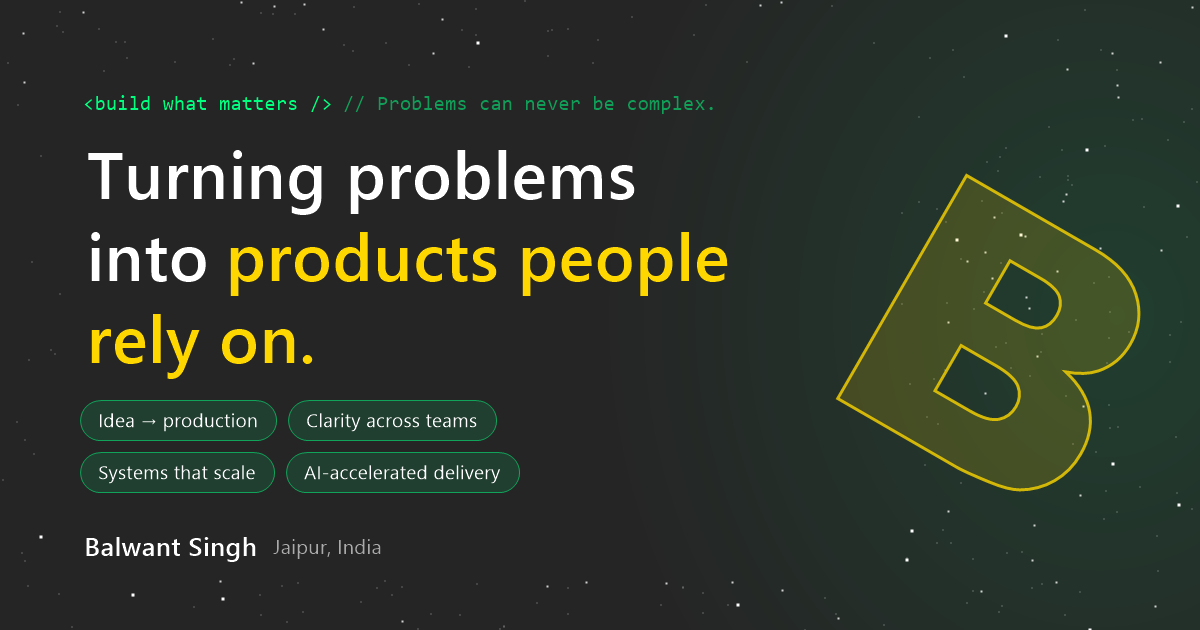
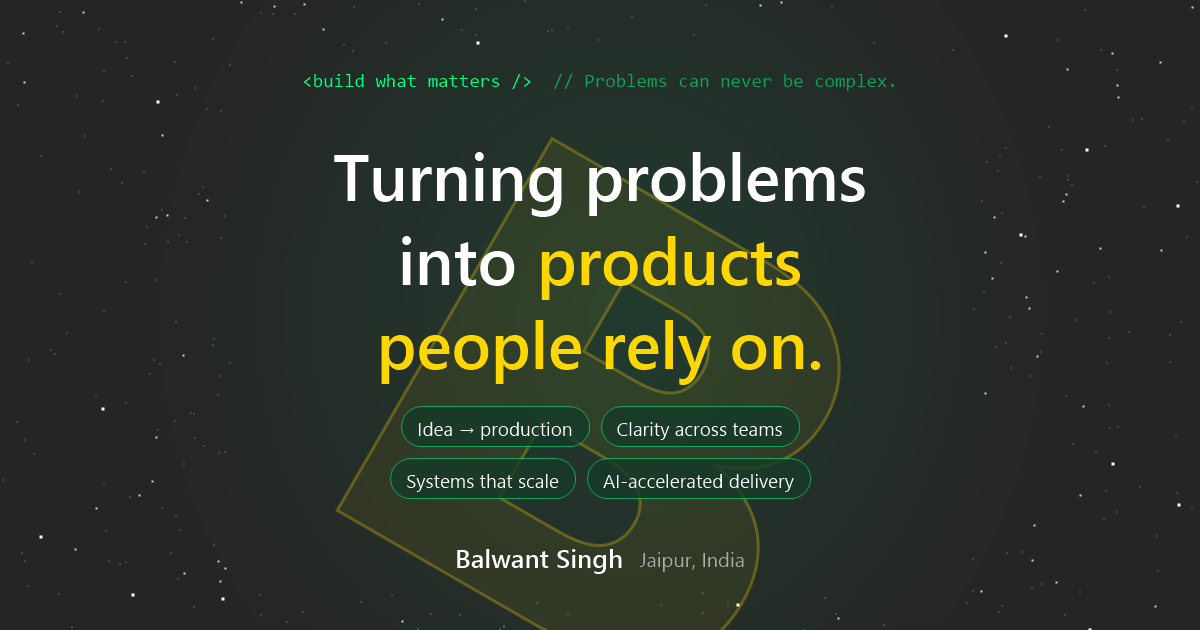
Centre the link-preview image so square crops show the full message
Slack and similar apps crop the preview to a centre square, so the
headline, pills and name now sit inside it. The image URL carries ?v=2
so cached previews refresh.

diff --git a/public/index.html b/public/index.html
@@ -17,7 +17,7 @@
     <meta property="og:title" content="Balwant Singh | Turning problems into products people rely on" />
     <meta property="og:description" content="Balwant Singh turns problems into products people rely on. Senior software engineer, forward deployed engineer and team lead based in Jaipur, India." />
     <meta property="og:url" content="https://darkgreen-reindeer-651346.hostingersite.com/" />
-    <meta property="og:image" content="https://darkgreen-reindeer-651346.hostingersite.com/og-image.png" />
+    <meta property="og:image" content="https://darkgreen-reindeer-651346.hostingersite.com/og-image.png?v=2" />
     <meta property="og:image:width" content="1200" />
     <meta property="og:image:height" content="630" />
     <meta
@@ -27,7 +27,7 @@
     <meta name="twitter:card" content="summary_large_image" />
     <meta name="twitter:title" content="Balwant Singh | Turning problems into products people rely on" />
     <meta name="twitter:description" content="Balwant Singh turns problems into products people rely on. Senior software engineer, forward deployed engineer and team lead based in Jaipur, India." />
-    <meta name="twitter:image" content="https://darkgreen-reindeer-651346.hostingersite.com/og-image.png" />
+    <meta name="twitter:image" content="https://darkgreen-reindeer-651346.hostingersite.com/og-image.png?v=2" />
     <link rel="manifest" href="%PUBLIC_URL%/manifest.json" />
     <title>Balwant Singh | Turning problems into products people rely on</title>
   </head>
